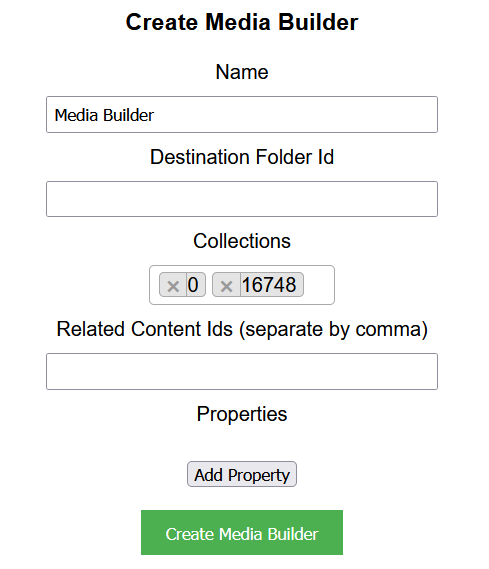
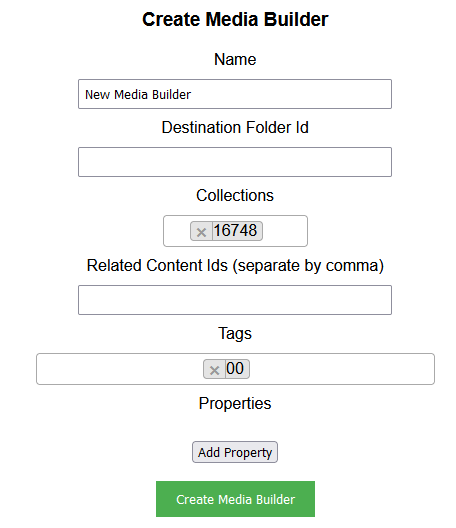
updated sample

diff --git a/media-builder/server.js b/media-builder/server.js
@@ -1,4 +1,5 @@
 const COLLECTION_CONTENT_DEFINITION_ID = "20352932-05d2-4a7a-8821-06fcf4438ced";
+const TAG_CONTENT_DEFINITION_ID = "c806783c-f127-48ae-90c9-32175f4e1fff";
 
 import { dirname } from 'path';
 import { fileURLToPath } from 'url';
@@ -54,6 +55,21 @@ app.get('/get-related-content-list', upload.none(), async (req, res) =>
     }
 });
 
+app.get('/get-tags-list', upload.none(), async (req, res) =>
+{
+    try
+    {
+        const TAGS = await getGroups(TAG_CONTENT_DEFINITION_ID);
+
+        res.status(200).json(TAGS);
+    }
+    catch (error)
+    {
+        console.error(error);
+        res.status(500).send(error);
+    }
+});
+
 app.post('/create-media-builder', upload.none(), async (req, res) =>
 {
     try
@@ -66,6 +82,13 @@ app.post('/create-media-builder', upload.none(), async (req, res) =>
         }
 
         const RELATED_CONTENT_IDS = req.body.relatedContentIds !== "" ? req.body.relatedContentIds.split(",") : null;
+
+        let tags = null;
+        if (req.body.createMediaBuilderTagsSelect)
+        {
+            const PARSED_TAGS = JSON.parse(req.body.createMediaBuilderTagsSelect);
+            tags = Array.isArray(PARSED_TAGS) ? PARSED_TAGS : [PARSED_TAGS];
+        }
 
         const PROPERTIES = {};
 
@@ -92,7 +115,7 @@ app.post('/create-media-builder', upload.none(), async (req, res) =>
 
         const MEDIA_BUILDER = await NomadSDK.createMediaBuilder(req.body.name, 
             req.body.destinationFolderId, collections, RELATED_CONTENT_IDS,
-            PROPERTIES);
+            tags, PROPERTIES);
 
         res.status(200).json(MEDIA_BUILDER);
     }
@@ -375,6 +398,13 @@ app.post('/update-media-builder', upload.none(), async (req, res) =>
 
         const RELATED_CONTENT_IDS = req.body.relatedContentIds !== "" ? req.body.relatedContentIds.split(",") : null;
 
+        let tags = null;
+        if (req.body.updateMediaBuilderTagsSelect)
+        {
+            const PARSED_TAGS = JSON.parse(req.body.updateMediaBuilderTagsSelect);
+            tags = Array.isArray(PARSED_TAGS) ? PARSED_TAGS : [PARSED_TAGS];
+        }
+
         const PROPERTIES = {};
 
         if (req.body.key)
@@ -400,7 +430,7 @@ app.post('/update-media-builder', upload.none(), async (req, res) =>
 
         const MEDIA_BUILDER = await NomadSDK.updateMediaBuilder(req.body.id, 
             req.body.name, req.body.destinationFolderId, collections, RELATED_CONTENT_IDS, 
-            PROPERTIES);
+            tags, PROPERTIES);
 
         res.status(200).json(MEDIA_BUILDER);
     }

diff --git a/media-builder/public/media-builder.js b/media-builder/public/media-builder.js
@@ -14,9 +14,11 @@ const RENDER_MEDIA_BUILDER_FORM = document.getElementById('renderMediaBuilderFor
 const UPDATE_MEDIA_BUILDER_FORM = document.getElementById('updateMediaBuilderForm');
 
 const CREATE_MEDIA_BUILDER_COLLECTIONS_SELECT = document.getElementById('createMediaBuilderCollectionsSelect');
+const CREATE_MEDIA_BUILDER_TAGS_SELECT = document.getElementById('createMediaBuilderTagsSelect');
 const SOURCE_TYPE_SELECT = document.getElementById('sourceTypeSelect');
 const DUPLICATE_MEDIA_BUILDER_COLLECTIONS_SELECT = document.getElementById('duplicateMediaBuilderCollectionsSelect');
 const UPDATE_MEDIA_BUILDER_COLLECTIONS_SELECT = document.getElementById('updateMediaBuilderCollectionsSelect');
+const UPDATE_MEDIA_BUILDER_TAGS_SELECT = document.getElementById('updateMediaBuilderTagsSelect');
 
 const CREATE_MEDIA_BUILDER_PROPERTIES_DIV = document.getElementById('createMediaBuilderPropertiesDiv');
 const ASSET_DIV = document.getElementById('assetDiv');
@@ -49,6 +51,25 @@ async function getCollectionsList()
     $(CREATE_MEDIA_BUILDER_COLLECTIONS_SELECT).select2();
     $(DUPLICATE_MEDIA_BUILDER_COLLECTIONS_SELECT).select2();
     $(UPDATE_MEDIA_BUILDER_COLLECTIONS_SELECT).select2();
+}
+
+await getTagsList();
+
+async function getTagsList()
+{
+    const TAGS_LIST = await sendRequest('/get-tags-list', 'GET');
+
+    for (let tagIdx = 0; tagIdx < TAGS_LIST.length; ++tagIdx)
+    {
+        const OPTION = document.createElement('option');
+        OPTION.value = TAGS_LIST[tagIdx].id;
+        OPTION.text = TAGS_LIST[tagIdx].title;
+        CREATE_MEDIA_BUILDER_TAGS_SELECT.appendChild(OPTION);
+        UPDATE_MEDIA_BUILDER_TAGS_SELECT.appendChild(OPTION.cloneNode(true));
+    }
+
+    $(CREATE_MEDIA_BUILDER_TAGS_SELECT).select2();
+    $(UPDATE_MEDIA_BUILDER_TAGS_SELECT).select2();
 }
 
 CREATE_MEDIA_BUILDER_ADD_PROPERTY_BUTTON.addEventListener('click', async function (event)

diff --git a/media-builder/public/media-builder.html b/media-builder/public/media-builder.html
@@ -51,6 +51,9 @@
         <label for="relatedContentIds">Related Content Ids (separate by comma)</label>
         <input type="text" id="relatedContentIds">
 
+        <label for="tags">Tags</label>
+        <select id="createMediaBuilderTagsSelect" multiple></select>
+
         <label for="properties">Properties</label>
         <div id="createMediaBuilderPropertiesDiv"></div>
         <br>
@@ -240,6 +243,9 @@
 
         <label for="relatedContentIds">Related Content Ids (separated by comma)</label>
         <input type="text" id="relatedContentIds">
+
+        <label for="tags">Tags</label>
+        <select id="updateMediaBuilderTagsSelect" multiple></select>
 
         <label for="properties">Properties</label>
         <div id="updateMediaBuilderPropertiesDiv"></div>
